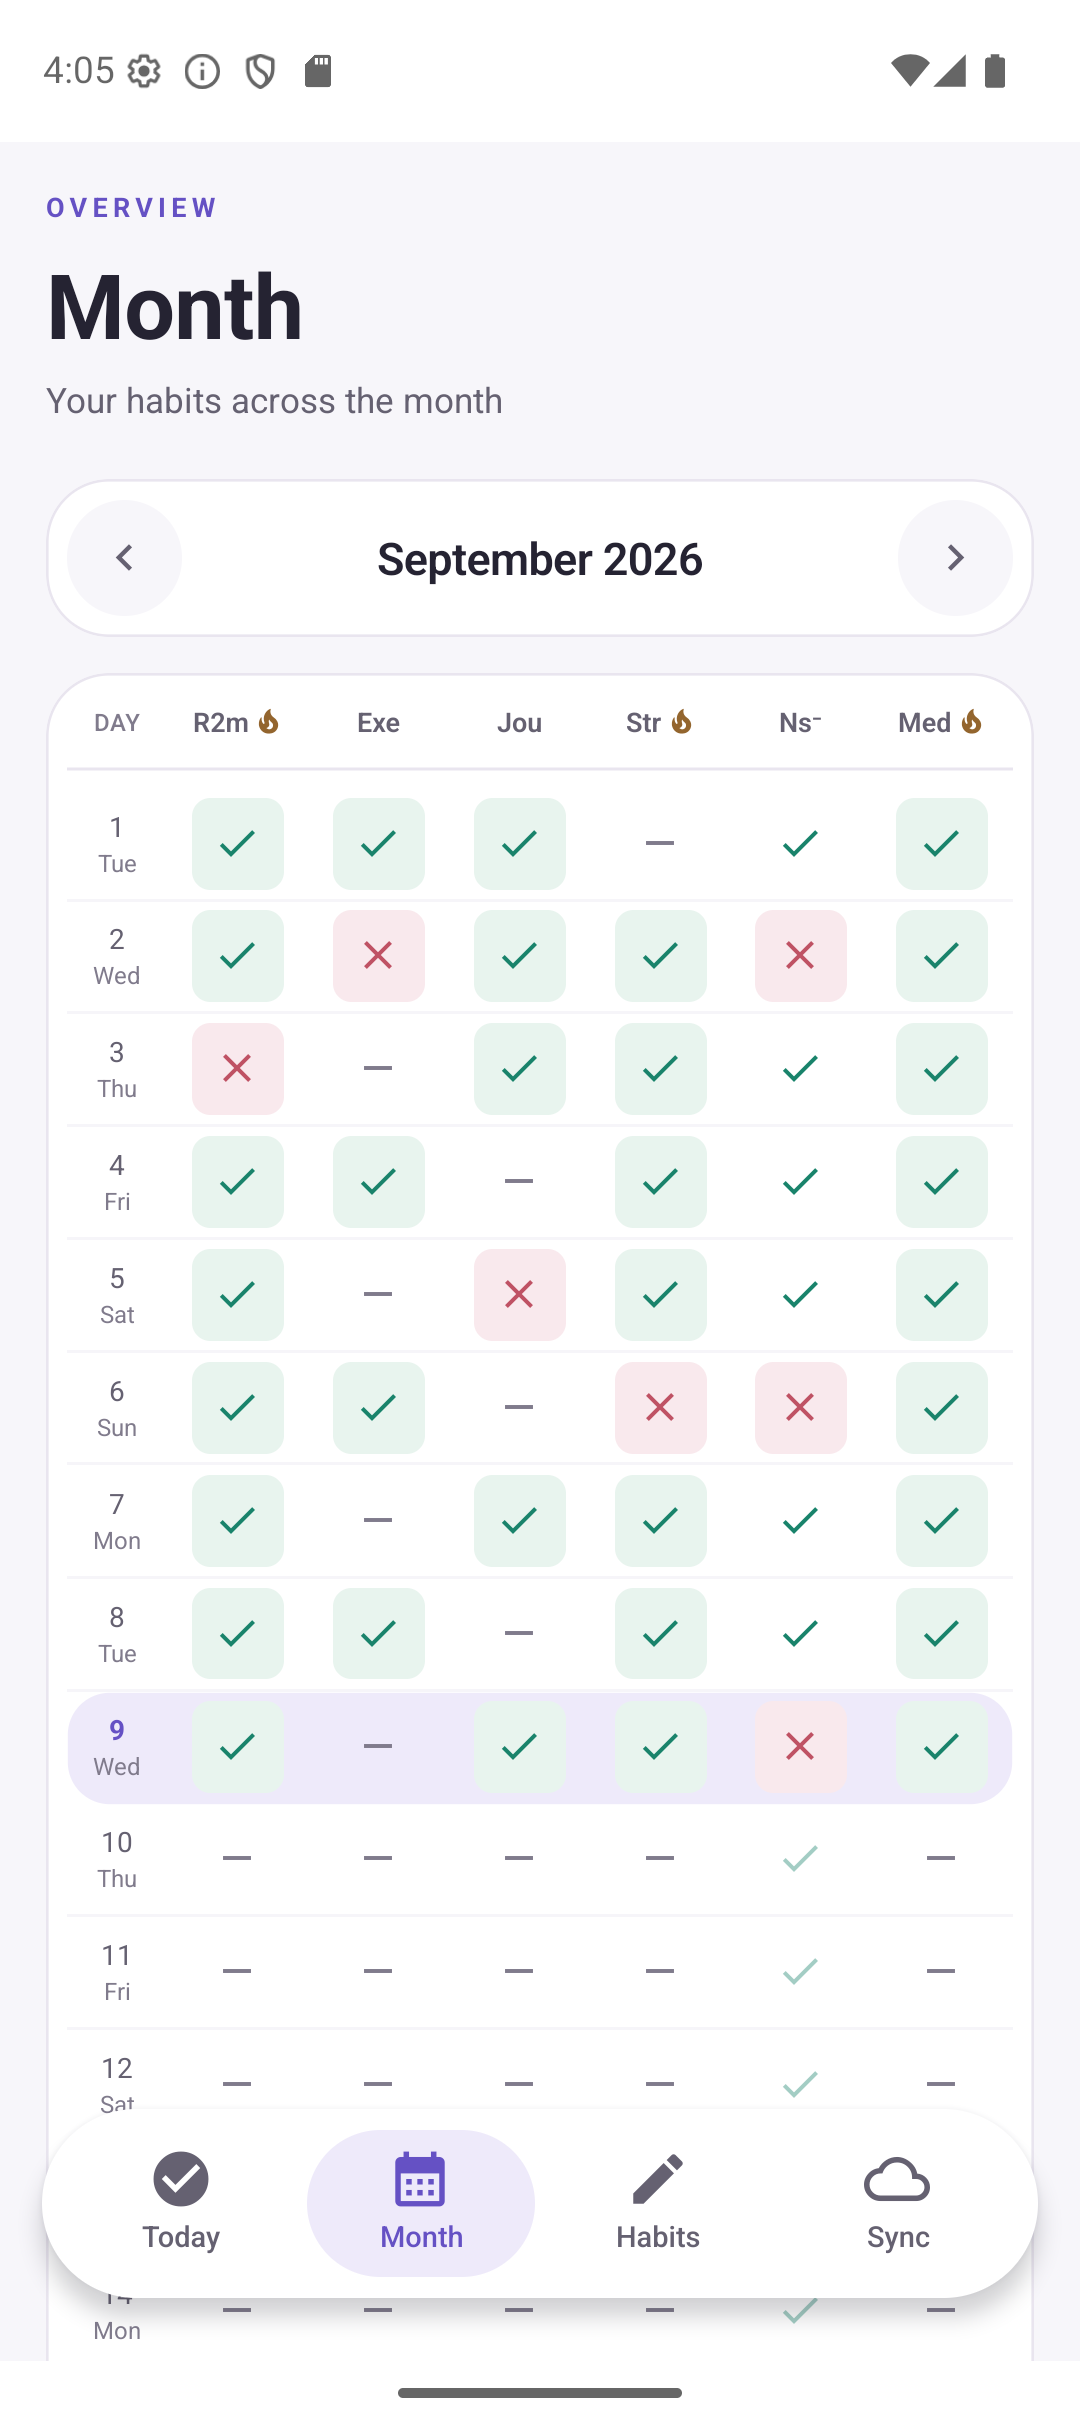
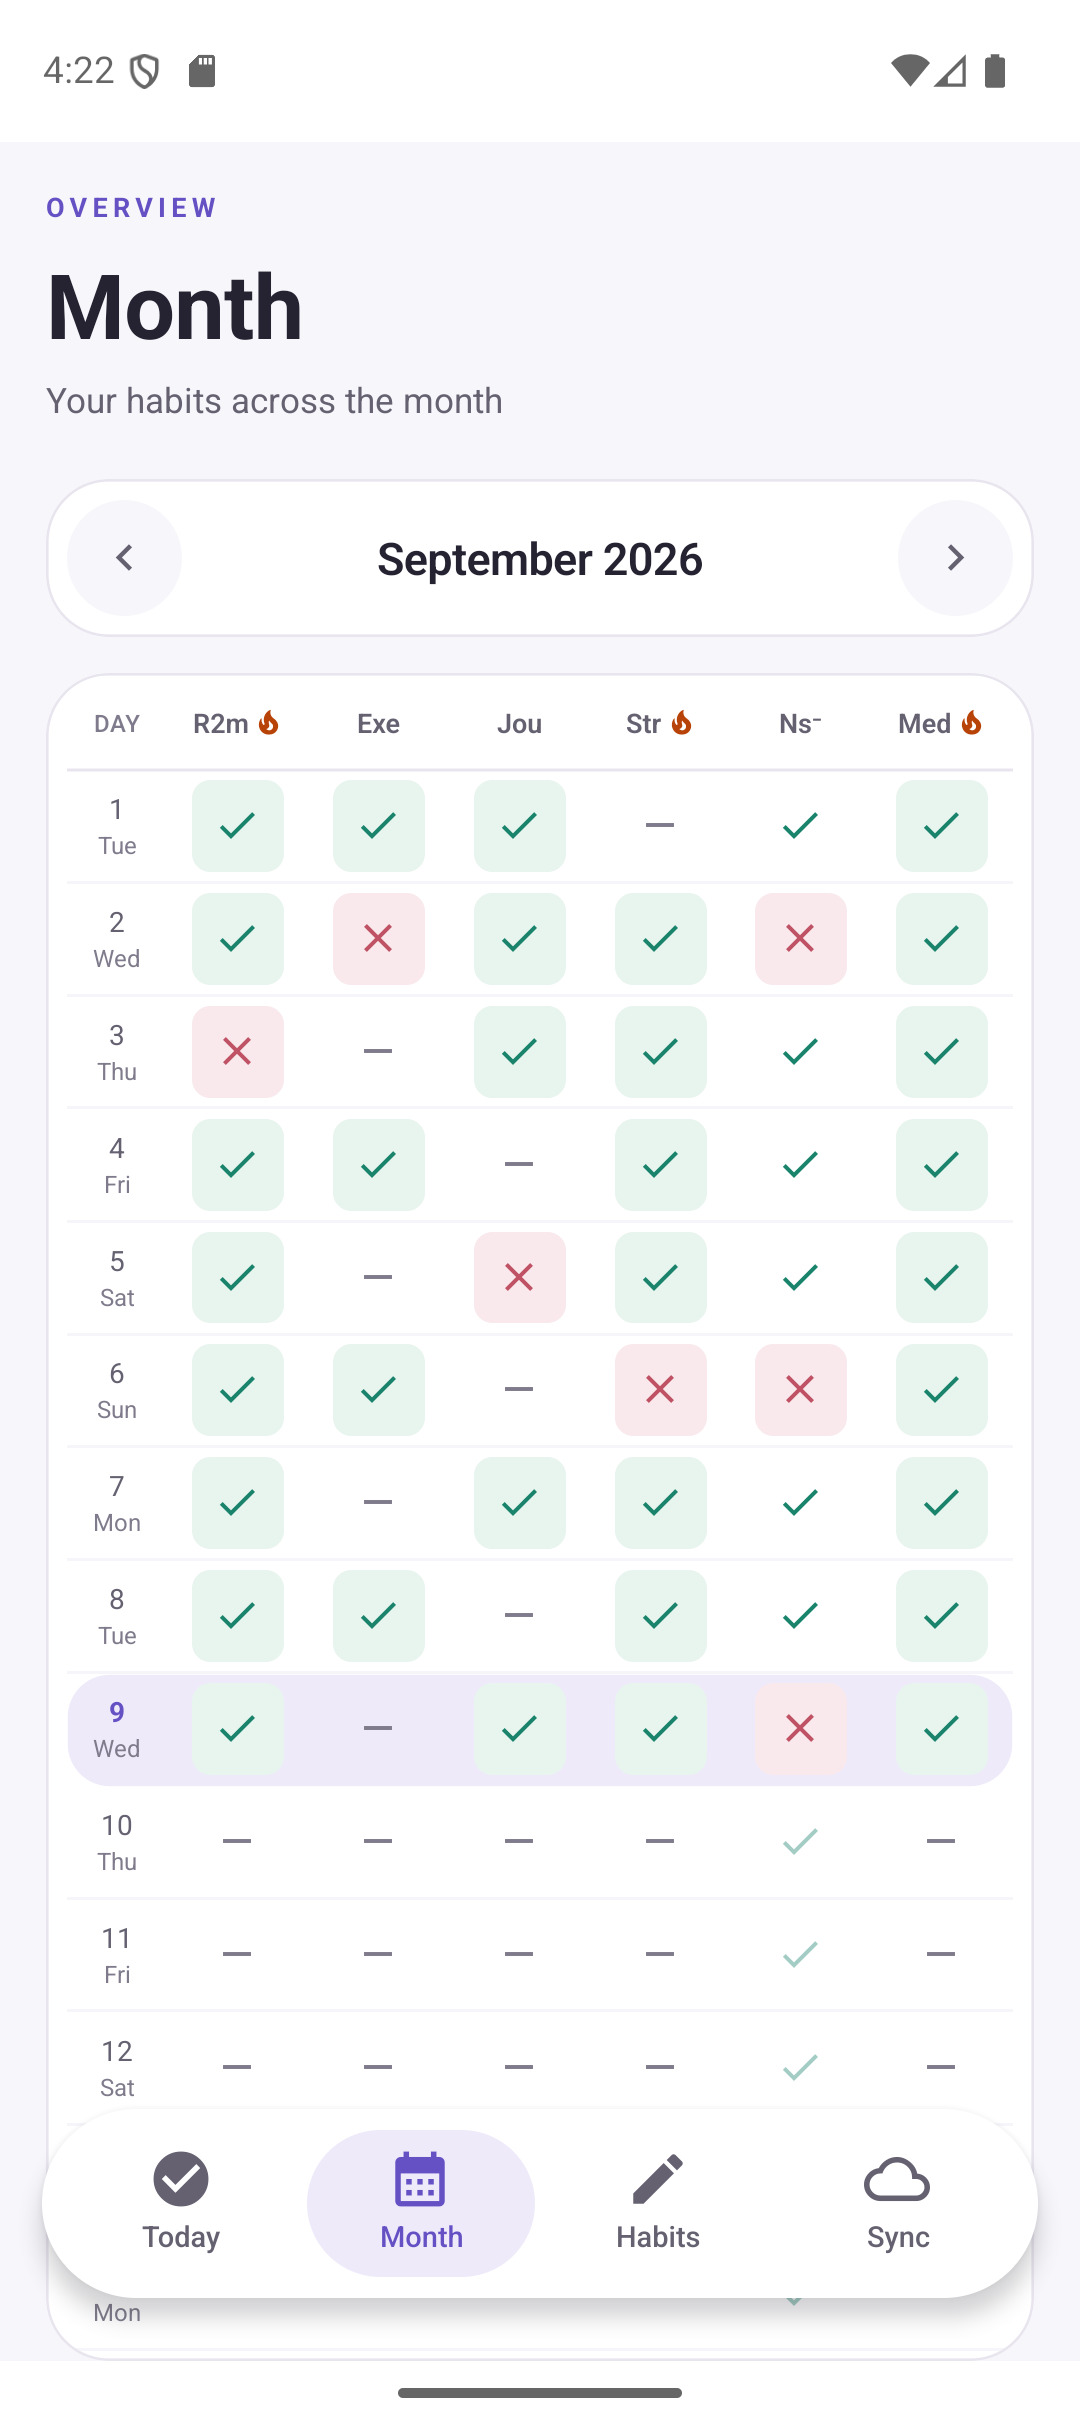
Refine mobile UI and keep Month column headers visible
Remove the daily progress card, strengthen streak colors, distinguish device icons, and refresh emulator screenshots.

diff --git a/apps/mobile/src/components/month/MonthGrid.tsx b/apps/mobile/src/components/month/MonthGrid.tsx
@@ -1,7 +1,8 @@
 import { memo, useMemo } from "react";
-import { ScrollView, Text, View } from "react-native";
+import { ScrollView, Text, View, type RefreshControlProps } from "react-native";
 
 import { HabitMark } from "@/components/HabitMark";
+import { TabBarClearance } from "@/components/ui/AppScreen";
 import { Card } from "@/components/ui/Card";
 import { Icon } from "@/components/ui/Icon";
 import { dateKey, weekdayShort, type MonthView } from "@/domain/dates";
@@ -18,6 +19,7 @@ interface MonthGridProps {
     entries: Entry[];
     streaks: Record<string, HabitStreak>;
     onToggle?: ToggleFn;
+    refreshControl?: React.ReactElement<RefreshControlProps>;
 }
 
 const DAY_COLUMN = "w-11";
@@ -39,19 +41,24 @@ export const MonthGrid = memo(function MonthGrid({
     entries,
     streaks,
     onToggle,
+    refreshControl,
 }: MonthGridProps) {
     const days = Array.from({ length: view.daysInMonth }, (_, i) => i + 1);
     const index = useMemo(() => entryIndex(entries), [entries]);
 
+    // One horizontal viewport keeps labels and cells aligned; only the rows
+    // scroll vertically, leaving the column header pinned above them.
     return (
-        <Card className="px-2 py-3">
+        <Card className="flex-1 overflow-hidden p-0">
             <ScrollView
                 horizontal
+                className="flex-1"
+                directionalLockEnabled
                 showsHorizontalScrollIndicator={false}
-                contentContainerClassName="grow flex"
+                contentContainerClassName="grow"
             >
-                <View className="flex grow">
-                    <View className="mb-2 grow flex-row items-center border-b border-line pb-3">
+                <View className="grow px-2">
+                    <View className="shrink-0 flex-row items-center border-b border-line bg-surface py-3">
                         <View className={cn(DAY_COLUMN, "items-center")}>
                             <Text className="text-[9px] font-medium uppercase tracking-wide text-ink-3">
                                 Day
@@ -77,7 +84,7 @@ export const MonthGrid = memo(function MonthGrid({
                                         size={11}
                                         className={
                                             streaks[habit.id]?.current
-                                                ? "text-warm"
+                                                ? "text-streak"
                                                 : "text-ink-3"
                                         }
                                     />
@@ -86,17 +93,26 @@ export const MonthGrid = memo(function MonthGrid({
                         ))}
                     </View>
 
-                    {days.map((day) => (
-                        <MonthDayRow
-                            key={day}
-                            habits={habits}
-                            view={view}
-                            today={today}
-                            day={day}
-                            index={index}
-                            onToggle={onToggle}
-                        />
-                    ))}
+                    <ScrollView
+                        key={view.monthKey}
+                        className="flex-1"
+                        contentContainerClassName="pb-8"
+                        nestedScrollEnabled
+                        refreshControl={refreshControl}
+                    >
+                        {days.map((day) => (
+                            <MonthDayRow
+                                key={day}
+                                habits={habits}
+                                view={view}
+                                today={today}
+                                day={day}
+                                index={index}
+                                onToggle={onToggle}
+                            />
+                        ))}
+                        <TabBarClearance />
+                    </ScrollView>
                 </View>
             </ScrollView>
         </Card>

diff --git a/apps/mobile/src/components/ui/SlideTransition.tsx b/apps/mobile/src/components/ui/SlideTransition.tsx
@@ -1,3 +1,4 @@
+import { cn } from "@/lib/cn";
 import { useUpdateEffect } from "@/lib/useUpdateEffect";
 import { useEffect, useRef, useState, type ReactNode } from "react";
 import { View } from "react-native";
@@ -18,6 +19,8 @@ interface Props {
     // Cross-fade the two layers on top of the slide (used for the month title).
     fade?: boolean;
     durationMs?: number;
+    // Fill a bounded viewport when the children own scrolling (e.g. the Month table).
+    fill?: boolean;
 }
 
 // Cross-slides its children whenever `transitionKey` changes: the previous render is snapshotted into
@@ -36,6 +39,7 @@ export function SlideTransition({
     distance,
     fade = false,
     durationMs = 220,
+    fill = false,
 }: Props) {
     const width = useSharedValue(0);
     const dir = useSharedValue(0);
@@ -84,8 +88,9 @@ export function SlideTransition({
     });
 
     return (
-        <View className="overflow-hidden">
+        <View className={cn("overflow-hidden", fill && "flex-1")}>
             <Animated.View
+                className={fill ? "flex-1" : undefined}
                 onLayout={(event) => {
                     width.set(event.nativeEvent.layout.width);
                 }}
@@ -94,8 +99,17 @@ export function SlideTransition({
                 {children}
             </Animated.View>
             {outgoing && (
-                <View className="absolute inset-x-0 top-0" pointerEvents="none">
-                    <Animated.View style={outgoingStyle}>
+                <View
+                    className={cn(
+                        "absolute inset-x-0 top-0",
+                        fill && "bottom-0",
+                    )}
+                    pointerEvents="none"
+                >
+                    <Animated.View
+                        className={fill ? "flex-1" : undefined}
+                        style={outgoingStyle}
+                    >
                         {outgoing.node}
                     </Animated.View>
                 </View>

diff --git a/apps/mobile/src/app/month.tsx b/apps/mobile/src/app/month.tsx
@@ -49,14 +49,7 @@ export default function MonthScreen() {
             eyebrow="Overview"
             title="Month"
             subtitle="Your habits across the month"
-            refreshControl={
-                <RefreshControl
-                    refreshing={habitsQuery.isPending || sync.isPending}
-                    onRefresh={() =>
-                        sync.mutate({ currentMonthKey: view.monthKey })
-                    }
-                />
-            }
+            scroll={false}
         >
             <MonthNav
                 label={view.monthLabel}
@@ -68,6 +61,7 @@ export default function MonthScreen() {
                 <Loading />
             ) : (
                 <SlideTransition
+                    fill
                     transitionKey={view.monthKey}
                     direction={direction}
                 >
@@ -78,6 +72,18 @@ export default function MonthScreen() {
                         entries={entriesQuery.data ?? []}
                         streaks={streaksQuery.data ?? {}}
                         onToggle={toggle}
+                        refreshControl={
+                            <RefreshControl
+                                refreshing={
+                                    habitsQuery.isPending || sync.isPending
+                                }
+                                onRefresh={() =>
+                                    sync.mutate({
+                                        currentMonthKey: view.monthKey,
+                                    })
+                                }
+                            />
+                        }
                     />
                 </SlideTransition>
             )}

diff --git a/apps/mobile/src/app/index.tsx b/apps/mobile/src/app/index.tsx
@@ -1,6 +1,5 @@
 import { useMemo } from "react";
 
-import { DaySummary } from "@/components/today/DaySummary";
 import { HabitListItem } from "@/components/today/HabitListItem";
 import { AppScreen } from "@/components/ui/AppScreen";
 import { Card } from "@/components/ui/Card";
@@ -45,10 +44,6 @@ export default function TodayScreen() {
     const logged = habits.filter((habit) =>
         isSuccess(habit.polarity, outcomeOf(habit.id)),
     ).length;
-    const slips = habits.filter(
-        (habit) =>
-            habit.polarity === "Negative" && outcomeOf(habit.id) === "Failure",
-    ).length;
 
     const sync = useSync();
 
@@ -68,11 +63,6 @@ export default function TodayScreen() {
                 <Loading />
             ) : (
                 <>
-                    <DaySummary
-                        logged={logged}
-                        total={habits.length}
-                        slips={slips}
-                    />
                     <SectionHeader
                         title="Your habits"
                         detail="One day at a time"

diff --git a/apps/mobile/src/app/devices.tsx b/apps/mobile/src/app/devices.tsx
@@ -72,6 +72,8 @@ export default function DevicesScreen() {
 
 function DeviceRow({ session }: { session: SessionDto }) {
     const revoke = useRevokeSession();
+    // Sessions currently expose a name rather than a device-type field.
+    const isRemarkable = /\bremarkable\b/i.test(session.deviceName);
 
     const confirmRevoke = () =>
         Alert.alert(
@@ -98,7 +100,11 @@ function DeviceRow({ session }: { session: SessionDto }) {
     return (
         <Card className="mb-3 flex-row items-center gap-3">
             <View className="h-12 w-12 items-center justify-center rounded-2xl bg-accent-soft">
-                <Icon name="devices" size={22} className="text-accent" />
+                <Icon
+                    name={isRemarkable ? "tablet-mac" : "smartphone"}
+                    size={22}
+                    className="text-accent"
+                />
             </View>
             <View className="min-w-0 flex-1">
                 <View className="flex-row flex-wrap items-center gap-1.5">

diff --git a/apps/mobile/src/components/ui/AppScreen.tsx b/apps/mobile/src/components/ui/AppScreen.tsx
@@ -78,10 +78,8 @@ export function AppScreen({
                     </ScrollView>
                 )
             ) : (
-                <View className="flex-1 px-5">
-                    <View className="flex-1">{children}</View>
-                    <TabBarClearance />
-                </View>
+                // A screen with its own scroll view owns its scroll-end clearance.
+                <View className="flex-1 px-5">{children}</View>
             )}
         </SafeAreaView>
     );
@@ -89,7 +87,7 @@ export function AppScreen({
 
 // This spacer scrolls with the content instead of masking it with a fixed footer.
 // Include the home-indicator inset and room for the capsule at larger text sizes.
-function TabBarClearance() {
+export function TabBarClearance() {
     return (
         <SafeAreaView
             className="pt-28"

diff --git a/apps/mobile/tailwind.config.js b/apps/mobile/tailwind.config.js
@@ -15,9 +15,8 @@ module.exports = {
                 accent: {
                     DEFAULT: palette.accent,
                     soft: palette.accentSoft,
-                    deep: palette.accentDeep,
-                    muted: palette.accentMuted,
                 },
+                streak: { DEFAULT: palette.streak, soft: palette.streakSoft },
                 warm: { DEFAULT: palette.warm, soft: palette.warmSoft },
                 done: { DEFAULT: palette.done, soft: palette.doneSoft },
                 slip: { DEFAULT: palette.slip, soft: palette.slipSoft },

diff --git a/apps/mobile/src/components/today/StreakPill.tsx b/apps/mobile/src/components/today/StreakPill.tsx
@@ -32,8 +32,8 @@ export function StreakPill({ streak, success }: StreakPillProps) {
 
     return (
         <AnimatedPill
-            className="bg-warm-soft"
-            labelClassName="text-warm"
+            className="bg-streak-soft"
+            labelClassName="text-streak"
             icon="local-fire-department"
             label={`${streak} days`}
             style={style}

diff --git a/apps/mobile/src/theme/palette.js b/apps/mobile/src/theme/palette.js
@@ -16,8 +16,8 @@ const palette = /** @type {const} */ ({
     line: "#e9e5ef",
     accent: "#6551c4",
     accentSoft: "#eeeafa",
-    accentDeep: "#302746",
-    accentMuted: "#d2c7ea",
+    streak: "#b84308",
+    streakSoft: "#ffdb9f",
     warm: "#93652e",
     warmSoft: "#f7efdf",
     done: "#19836b",
